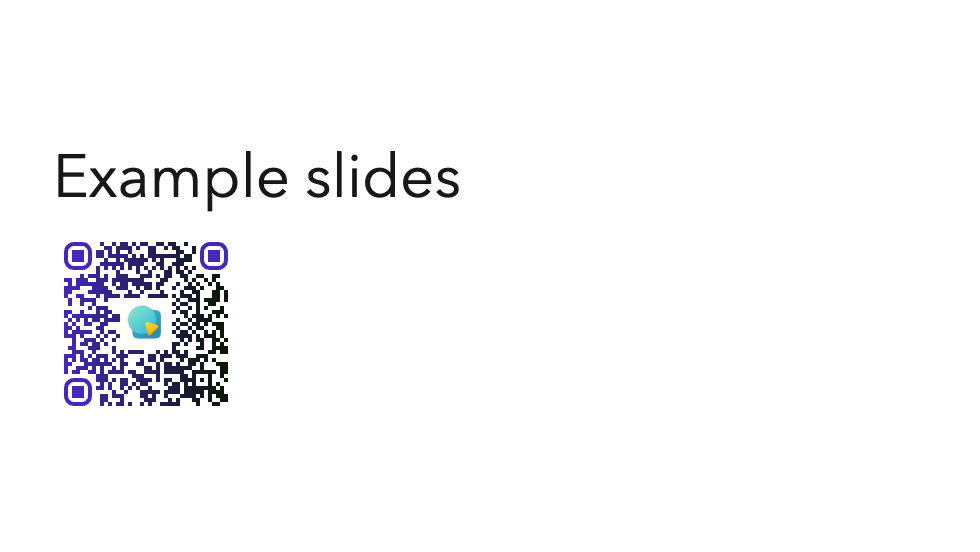
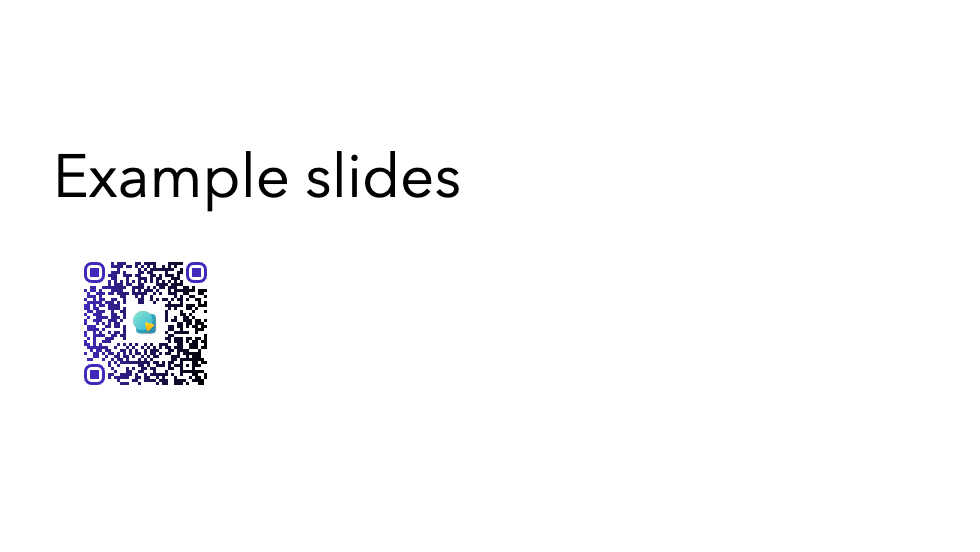
Fix default

Changed region(s): [[0.0612, 0.4312, 0.2449, 0.7391]]

diff --git a/components/QRCode.vue b/components/QRCode.vue
@@ -8,12 +8,18 @@ import { watch, computed, onMounted, ref } from 'vue';
 
 const qrCodeRef: any = ref(null);
 
-const props = defineProps({
-  value: String,
-  color: String,
-  width: String,
-  height: String,
-  image: String,
+export interface Props {
+  value: string,
+  color: string,
+  width: number,
+  height: number,
+  image: string,
+}
+
+const props = withDefaults(defineProps<Props>(), {
+  width: 200,
+  height: 200,
+  color: "000000",
 });
 
 const offsetColor = computed<string>(() => {
@@ -83,9 +89,9 @@ onMounted(async () => {
 });
 
 watch(
-  () => props.data,
+  () => props.value,
   (newValue) => {
-    qrCode.update({ ...options, value: newValue });
+    qrCode.update({ ...options, data: newValue });
   },
 );
 

diff --git a/example.md b/example.md
@@ -5,4 +5,4 @@ layout: cover
 
 # Example slides
 
-<QRCode width="180" height="180" value="https://github.com/k2tzumi/slidev-addon-qrcode" color="4329B9" image="83095831.png" />
+<QRCode :width=180 :height=180 value="https://github.com/k2tzumi/slidev-addon-qrcode" color="4329B9" image="83095831.png" />

diff --git a/README.md b/README.md
@@ -45,8 +45,8 @@ You can create a poll by using the [QRCode component](#QRCode).
 ```xml
 <QRCode
   value="https://github.com/k2tzumi/slidev-addon-qrcode"
-  width="180"
-  height="180"
+  :width="180"
+  :height="180"
   color="4329B9"
   image="83095831.png"
 />
